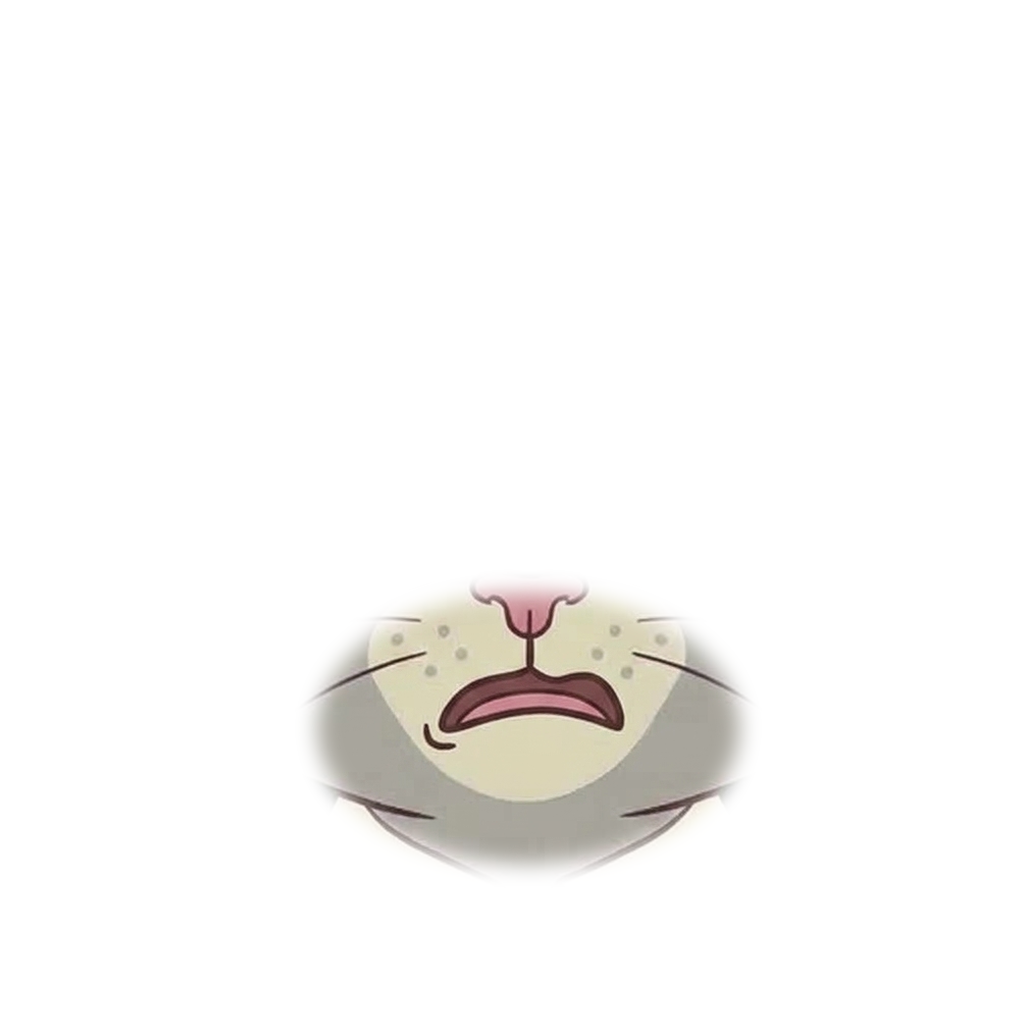
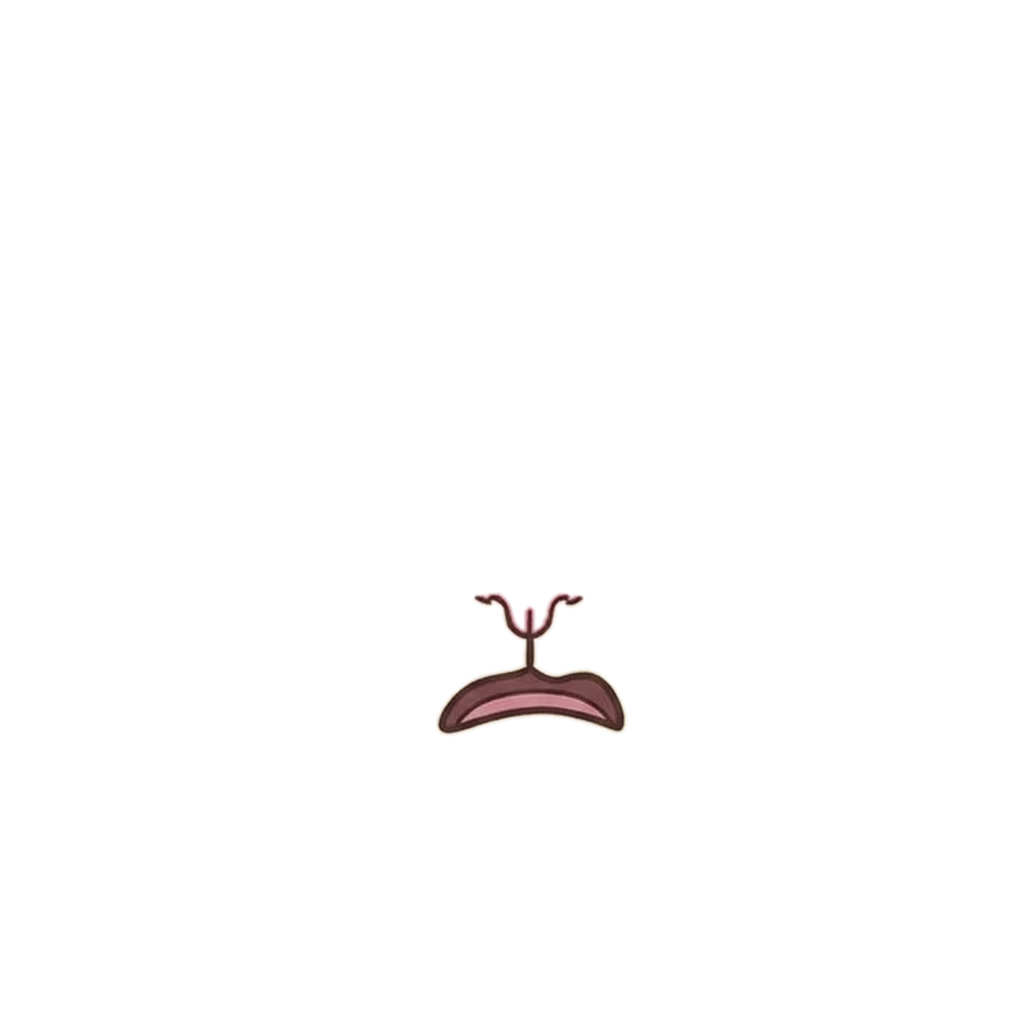
v4: bocas sueltas: solo trazo e interior de la boca (el hocico ya no cambia entre bocas); visemas reasignadas
Claude-Session: https://claude.ai/code/session_01NybaBEBQ36CdbDeKLNGsjf

Changed region(s): [[0.2812, 0.5625, 0.75, 0.875]]

diff --git a/factory/mascot/v4/parts_mouths_single.py b/factory/mascot/v4/parts_mouths_single.py
@@ -2,6 +2,7 @@
   python3 v4/parts_mouths_single.py -> singles/mouth_<nombre>.png y singles/mouths_contact.jpg   (entrada: singles/mouth_src_<nombre>.png)
 """
 import os, sys, glob
+import scipy.ndimage as ndi
 import numpy as np
 from PIL import Image
 D = os.path.dirname(os.path.abspath(__file__)); V3 = os.path.join(D, "..", "v3"); S = os.path.join(D, "singles")
@@ -21,11 +22,20 @@ def main():
         b = P.nose_box(cell, (300, 450, 724, 700)); sc = nw / (b[2] - b[0])
         p = P.place(cell.convert("RGBA"), sc, ((b[0] + b[2]) / 2, b[1]), (ncx, nb[1]), size)
         arr = np.asarray(p).copy(); arr[..., 1] = np.minimum(arr[..., 1], np.maximum(arr[..., 0], arr[..., 2])); p = Image.fromarray(arr)      # quita el halo verde del croma
-        mk = mask if name not in CUSTOM else P.soft(size, CUSTOM[name], 6)
-        a = np.minimum(np.asarray(p.split()[3]), np.asarray(mk))
-        if name in CUSTOM:      # solo los píxeles oscuros (el trazo): así no arrastra el tono del fondo crema de la imagen de Gemini
-            lum = np.asarray(p.convert('L')).astype(np.float32); a = (a * np.clip((150 - lum) / 40, 0, 1)).astype(np.uint8)
-        p.putalpha(Image.fromarray(a))
+        # SOLO la boca: trazo oscuro + lo que encierra (lengua, dientes, interior), conectado a la línea de la nariz.
+        # Así el hocico, las mejillas y los bigotes no cambian de una boca a otra (la base se ve igual siempre).
+        mk = np.asarray(mask if name not in CUSTOM else P.soft(size, CUSTOM[name], 6)).astype(np.float32) / 255
+        lum = np.asarray(p.convert("L")).astype(np.float32)
+        dark = (lum < 125) & (mk > 0.5)
+        filled = ndi.binary_fill_holes(ndi.binary_closing(dark, iterations=2))
+        lab, nl = ndi.label(filled)
+        cx, y0 = int(round(ncx)), int(nb[3])
+        near = set(np.unique(lab[y0 - 6:y0 + 60, cx - 12:cx + 12])) - {0}
+        keep = np.isin(lab, list(near)) if near else filled
+        # quita los bigotes que se pegan a las comisuras (trazos finos lejos del centro)
+        keep = ndi.binary_opening(keep, iterations=1) | (keep & (np.abs(np.arange(size[0])[None, :] - cx) < nw * 0.9))
+        a = ndi.gaussian_filter(ndi.binary_dilation(keep, iterations=2).astype(np.float32), 1.2)
+        p.putalpha(Image.fromarray((np.clip(a, 0, 1) * 255).astype(np.uint8)))
         p.save(os.path.join(S, f"mouth_{name}.png")); print(name, "escala", round(sc, 3))
         t = Image.new("RGBA", size, (255, 255, 255, 255)); t.alpha_composite(base); t.alpha_composite(p)
         thumbs.append(t.convert("RGB").crop((200, 480, 830, 900)))
